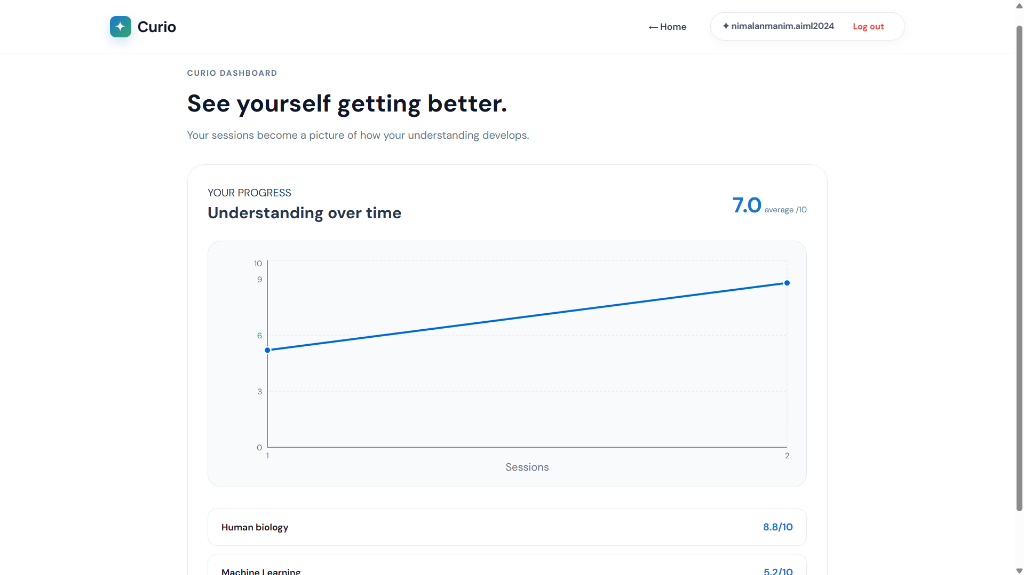
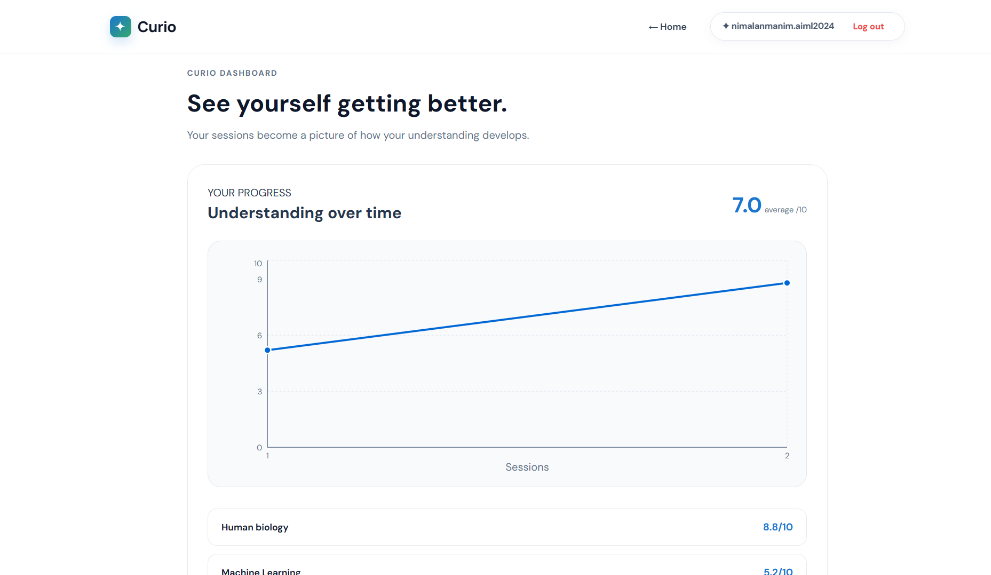
ui: make hero chat screenshot transparent, remove inline borders/shadows, and increase chat window padding

diff --git a/frontend/src/pages/Home.jsx b/frontend/src/pages/Home.jsx
@@ -78,10 +78,7 @@ function Home({ onStart, user, onLogout, onDashboard }) {
               src="/teach_screenshot.png" 
               alt="Curio Teach Interface" 
               style={{
-                width: "100%",
-                borderRadius: "20px",
-                boxShadow: "0 20px 50px rgba(15, 23, 42, 0.12)",
-                border: "1px solid #E2E8F0"
+                width: "100%"
               }}
             />
           </div>

diff --git a/frontend/src/App.css b/frontend/src/App.css
@@ -2606,8 +2606,8 @@ button:disabled {
   background: white;
   border: 1px solid #e2e8f0;
   border-radius: 24px;
-  padding: 30px;
-  box-shadow: 0 10px 30px rgba(15, 23, 42, 0.02);
+  padding: 40px;
+  box-shadow: 0 20px 60px rgba(15, 23, 42, 0.05);
   display: flex;
   flex-direction: column;
   min-height: 450px;
